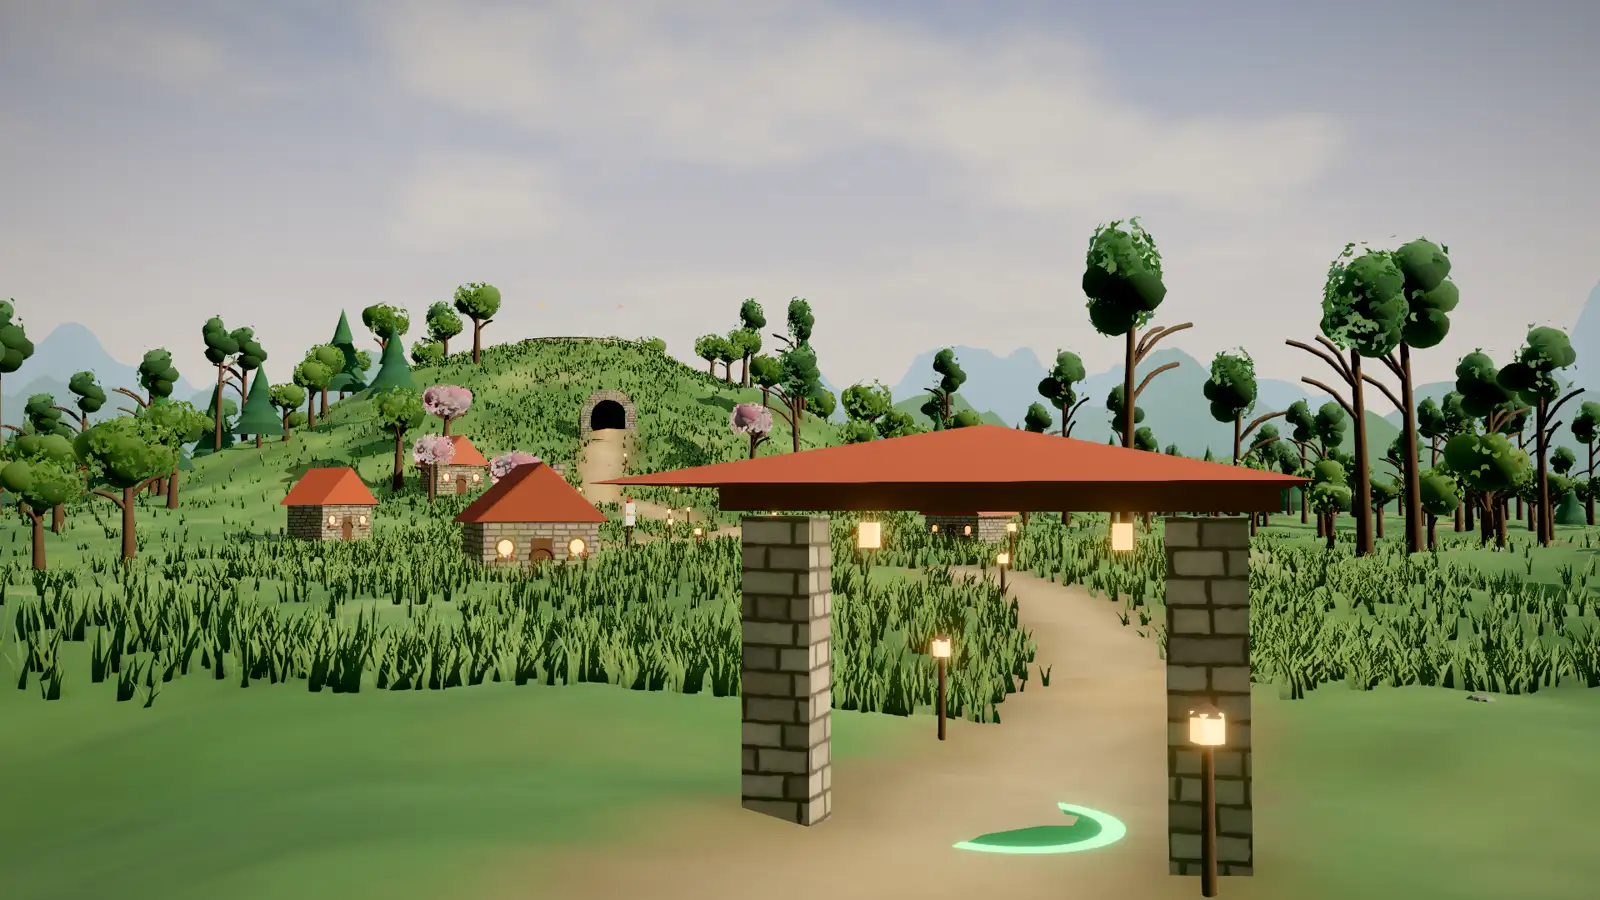
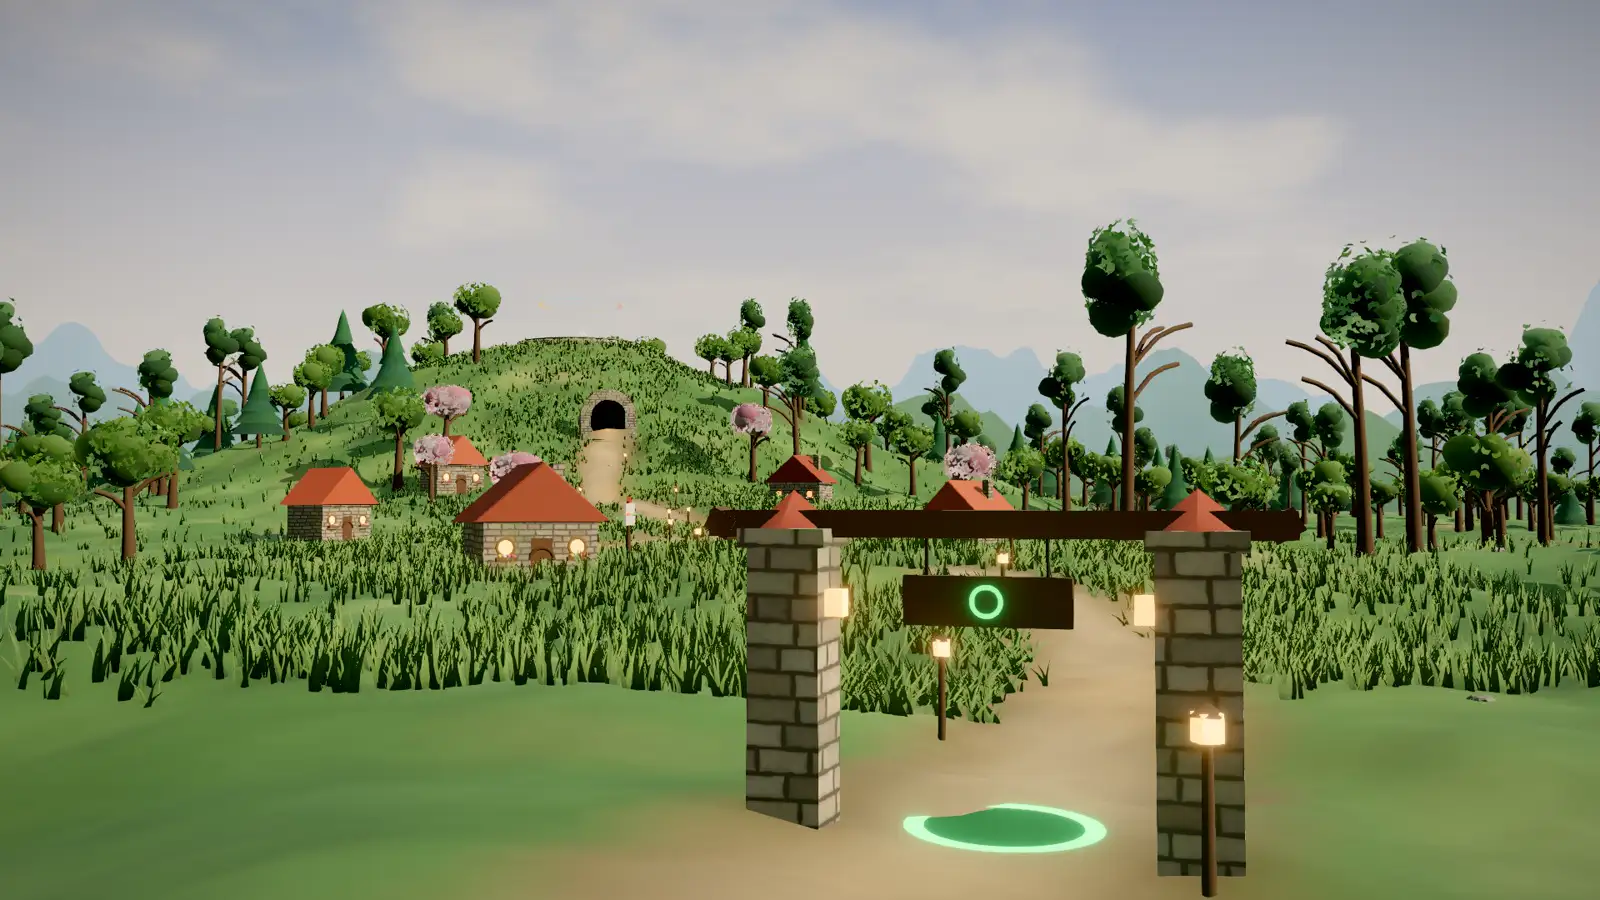
Meldan: a timber gate with a hanging board and the circle in its gateway, a shade under the walk's words, the bridge's still; renders retry when the page reloads

diff --git a/web/src/world/sets/hill.tsx b/web/src/world/sets/hill.tsx
@@ -479,37 +479,71 @@ function TapCircle({ position, radius = 1.2 }: { position: [number, number, numb
 }
 
 /**
- * The gate where the walk starts (ch. 1: a gate with a glowing green circle): two stone posts, a beam with a small
- * roof of clay tiles, and the circle on the path beneath, where you tap to come in.
+ * The gate where the walk starts (ch. 1: a gate with a glowing green circle): two stone posts with caps, a timber beam
+ * across them with a board hanging from it and a lantern on each post, and the circle on the path before it, where you
+ * tap to come in.
  */
 function Gate({ land }: { land: Land }) {
   const stone = useMemo(() => stoneMaterial({ a: "#c9bb9d", b: "#968873", brick: [0.55, 0.32], moss: 0.6 }), []);
+  const wood = useMemo(() => new THREE.MeshStandardMaterial({ color: "#5a3d26", roughness: 0.85 }), []);
+  const board = useRef<THREE.Group>(null);
   const at = land.path.getPointAt(GATE_T);
   const tan = land.path.getTangentAt(GATE_T);
   const y = land.height(at.x, at.z);
   const turn = Math.atan2(tan.x, tan.z);
+  // the board swings a little in the wind
+  useFrame(() => {
+    if (board.current) board.current.rotation.x = Math.sin(weather.time.value * 1.3) * 0.05;
+  });
   return (
     <group position={[at.x, y, at.z]} rotation={[0, turn, 0]}>
-      {[-2.6, 2.6].map((x) => (
-        <mesh key={x} material={stone} position={[x, 2.1, 0]} castShadow receiveShadow>
-          <boxGeometry args={[0.9, 4.2, 0.9]} />
+      {[-2.5, 2.5].map((x) => (
+        <group key={x} position={[x, 0, 0]}>
+          <mesh material={stone} position={[0, 1.9, 0]} castShadow receiveShadow>
+            <boxGeometry args={[0.95, 3.8, 0.95]} />
+          </mesh>
+          <mesh material={stone} position={[0, 3.92, 0]} castShadow>
+            <boxGeometry args={[1.15, 0.24, 1.15]} />
+          </mesh>
+          <mesh position={[0, 4.28, 0]} castShadow>
+            <coneGeometry args={[0.62, 0.5, 4]} />
+            <meshStandardMaterial color="#8f3f2a" roughness={0.75} />
+          </mesh>
+          {/* a lantern on the inner face of the post */}
+          <mesh position={[-Math.sign(x) * 0.6, 3.1, -0.1]}>
+            <boxGeometry args={[0.24, 0.34, 0.24]} />
+            <meshStandardMaterial color="#ffe2a8" emissive="#ffb35c" emissiveIntensity={2.2} toneMapped={false} />
+          </mesh>
+        </group>
+      ))}
+      {/* the beam, resting on the caps and running past them */}
+      <mesh material={wood} position={[0, 4.1, 0]} castShadow>
+        <boxGeometry args={[7.2, 0.34, 0.42]} />
+      </mesh>
+      {[-3.45, 3.45].map((x) => (
+        <mesh key={x} material={wood} position={[x, 4.1, 0]} rotation={[0, 0, Math.sign(x) * 0.5]}>
+          <boxGeometry args={[0.36, 0.3, 0.44]} />
         </mesh>
       ))}
-      <mesh position={[0, 4.45, 0]} castShadow>
-        <boxGeometry args={[6.8, 0.38, 0.7]} />
-        <meshStandardMaterial color="#5e4128" roughness={0.8} />
-      </mesh>
-      <mesh position={[0, 4.95, 0]} rotation={[0, Math.PI / 4, 0]} scale={[1, 0.55, 1]} castShadow>
-        <coneGeometry args={[5.1, 1.4, 4]} />
-        <meshStandardMaterial color="#a8492f" roughness={0.75} />
-      </mesh>
-      {[-1.6, 1.6].map((x) => (
-        <mesh key={x} position={[x, 3.95, 0.4]}>
-          <boxGeometry args={[0.22, 0.32, 0.22]} />
-          <meshStandardMaterial color="#ffe2a8" emissive="#ffb35c" emissiveIntensity={2.2} toneMapped={false} />
+      <group ref={board} position={[0, 3.93, 0]}>
+        {[-0.75, 0.75].map((x) => (
+          <mesh key={x} position={[x, -0.25, 0]}>
+            <cylinderGeometry args={[0.02, 0.02, 0.5, 4]} />
+            <meshStandardMaterial color="#2c2620" metalness={0.6} roughness={0.5} />
+          </mesh>
+        ))}
+        <mesh material={wood} position={[0, -0.78, 0]} castShadow>
+          <boxGeometry args={[2.1, 0.62, 0.1]} />
         </mesh>
-      ))}
-      <TapCircle position={[0, 0.06, 1.6]} radius={1.5} />
+        {/* the board shows the circle you are about to step into */}
+        {[1, -1].map((side) => (
+          <mesh key={side} position={[0, -0.78, side * 0.056]} rotation={[0, side > 0 ? 0 : Math.PI, 0]}>
+            <ringGeometry args={[0.15, 0.21, 32]} />
+            <meshStandardMaterial color="#0f2a18" emissive={TAP_GREEN} emissiveIntensity={1.4} toneMapped={false} />
+          </mesh>
+        ))}
+      </group>
+      <TapCircle position={[0, 0.14, 1.1]} radius={1.3} />
     </group>
   );
 }

diff --git a/web/src/world/walk.tsx b/web/src/world/walk.tsx
@@ -17,8 +17,10 @@ import { STOPS, type Stop } from "./stops";
 function Card({ stop, first }: { stop: Stop; first: boolean }) {
   const Title = first ? "h1" : "h2";
   return (
-    <section id={stop.id} className="flex h-[100svh] snap-start items-end px-5 pb-[12svh] sm:px-10">
-      <div className="max-w-xl space-y-4">
+    <section id={stop.id} className="relative flex h-[100svh] snap-start items-end px-5 pb-[12svh] sm:px-10">
+      {/* a soft shade under the words, so they read over a bright sky or grass */}
+      <div aria-hidden className="pointer-events-none absolute inset-0 bg-[radial-gradient(ellipse_75%_55%_at_0%_100%,rgba(10,12,8,0.62),rgba(10,12,8,0.25)_55%,transparent_80%)]" />
+      <div className="relative max-w-xl space-y-4">
         <p className="font-mono text-xs uppercase tracking-[0.18em] text-paper/75">{first ? "silverchat · Snowmoon, ch. 27" : stop.name}</p>
         <Title className="text-[clamp(2.4rem,6vw,4.6rem)] leading-[1.02] text-paper drop-shadow-[0_2px_18px_rgba(0,0,0,0.45)]">
           {first ? "Ask the network." : stop.label}
@@ -26,11 +28,11 @@ function Card({ stop, first }: { stop: Stop; first: boolean }) {
         <p className="max-w-lg text-lg leading-snug text-paper/90 drop-shadow-[0_1px_10px_rgba(0,0,0,0.5)]">{stop.line}</p>
         {stop.live ? (
           <div className="flex flex-wrap gap-3 pt-2">
-            <Link href={stop.routes[0]} scroll={false} className="bg-tap px-5 py-3 font-mono text-sm text-black hover:brightness-110">
+            <Link href={stop.routes[0]} scroll={false} className="rounded-full bg-tap px-5 py-3 font-mono text-sm text-black transition-[filter] hover:brightness-110">
               {first ? "Try it without a wallet" : `Open ${stop.name}`}
             </Link>
             {stop.also && (
-              <Link href={stop.also.route} scroll={false} className="border border-tap/80 px-5 py-3 font-mono text-sm text-paper hover:bg-tap/15">
+              <Link href={stop.also.route} scroll={false} className="rounded-full border border-tap/80 px-5 py-3 font-mono text-sm text-paper transition-colors hover:bg-tap/15">
                 {stop.also.label}
               </Link>
             )}
